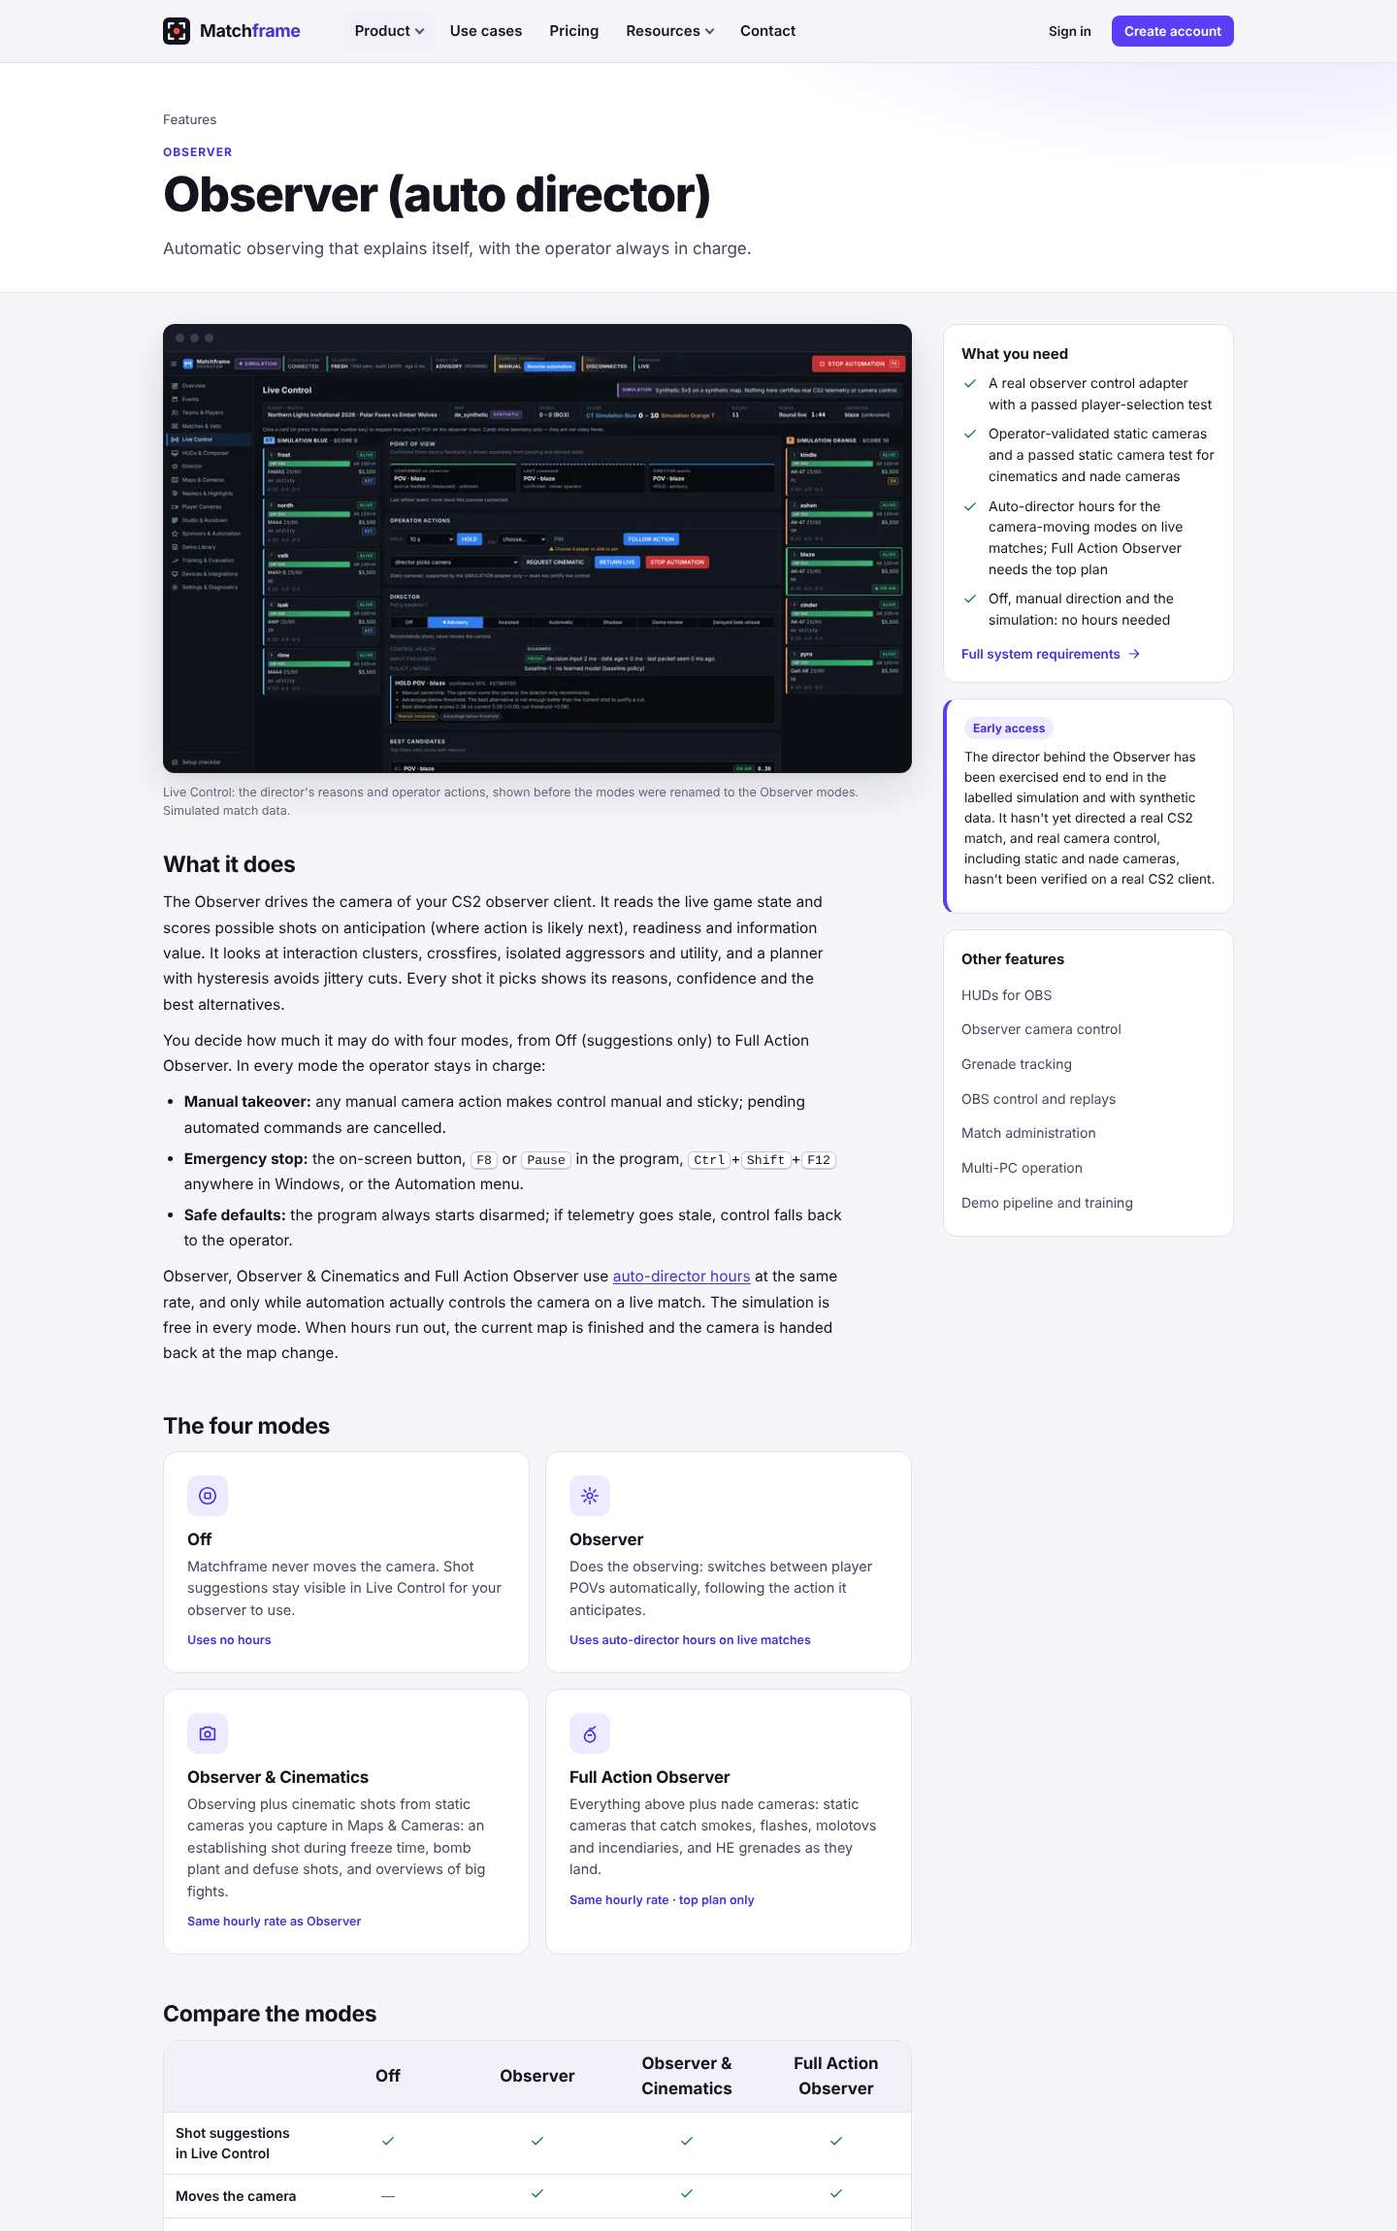
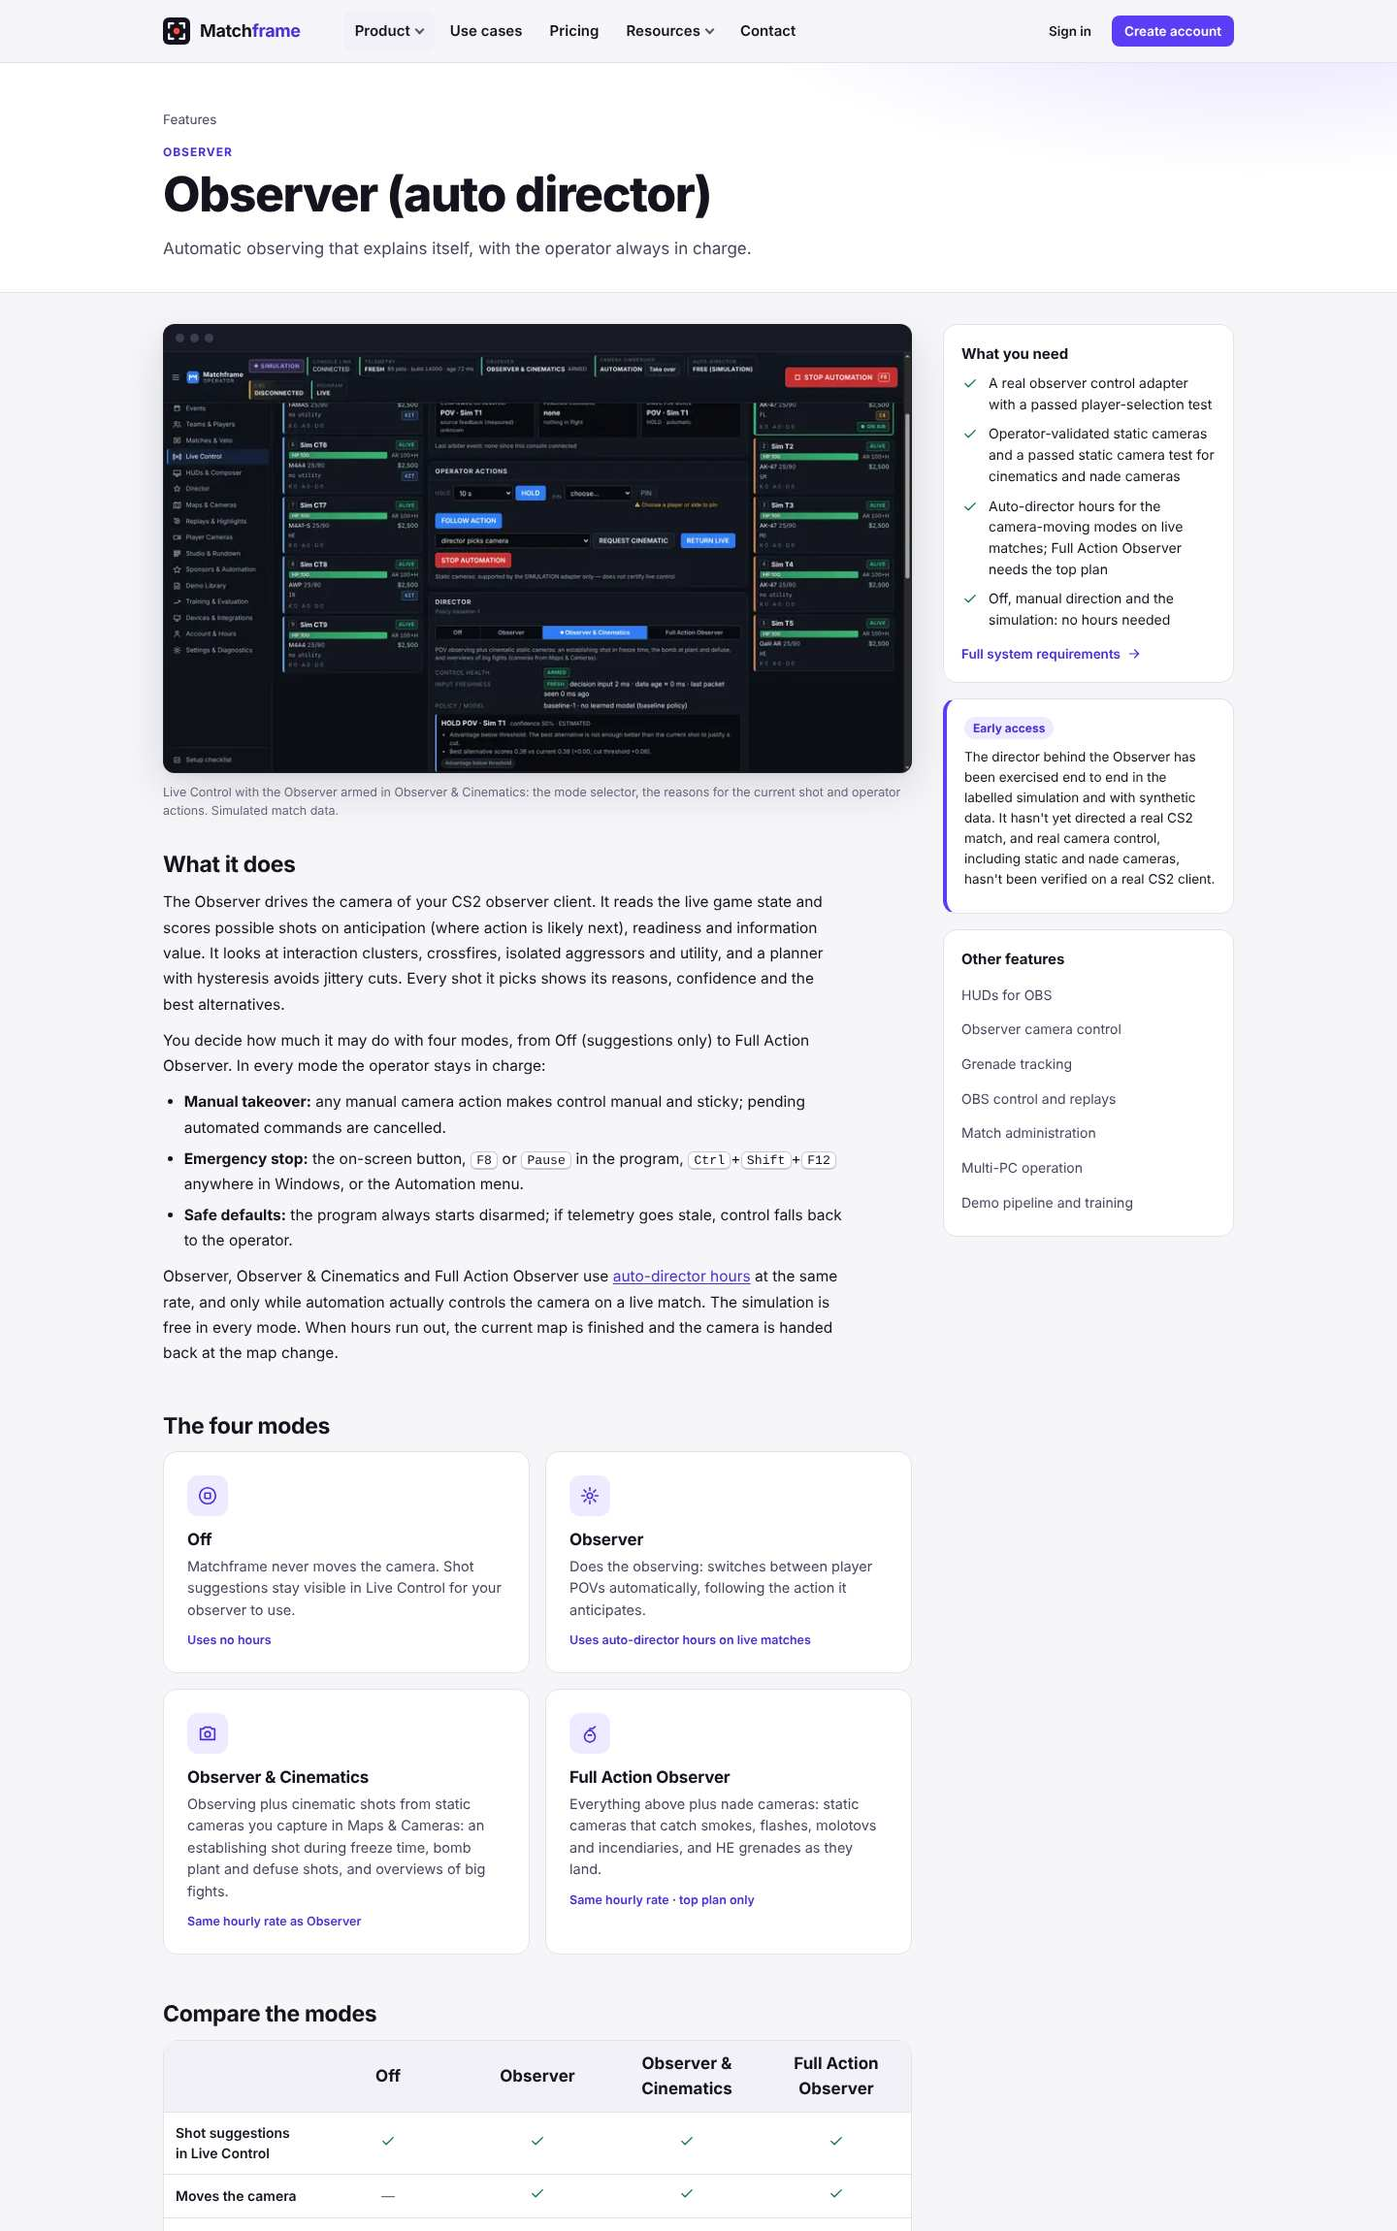
Website: plan changes described as the program applies them; new Live Control image
- A plan change reaches the program within 15 minutes; losing Full Action
  Observer switches to Observer & Cinematics at the next map change (FAQ,
  help, Observer page, how it works, changelog, catalogue hint).
- New program screenshot for the home and Observer pages: Live Control with
  the Observer armed in Observer & Cinematics.
- Screenshots refreshed for the affected pages (and the stale help page at
  390 px).
- BUILD_PROGRESS: 490 tests; Windows run for 0.1.2.

Claude-Session: https://claude.ai/code/session_01LaAUjAPvcaB4FzYKB4XiF4

Changed region(s): [[0.125, 0.1543, 0.6562, 0.3704], [0.125, 0.3396, 0.25, 0.3704], [0.5, 0.3396, 0.5625, 0.3704]]

diff --git a/apps/cloud-web/src/content/features.tsx b/apps/cloud-web/src/content/features.tsx
@@ -157,7 +157,7 @@ export const FEATURES: Feature[] = [
     tagline: "Automatic observing that explains itself, with the operator always in charge.",
     summary: "The Observer is Matchframe's auto director. It switches player POVs, adds cinematic shots from your static cameras and, on the top plan, catches the utility with nade cameras. Choose one of four modes, take the camera back at any moment and stop everything with one key.",
     highlights: ["Off, Observer, Observer & Cinematics and Full Action Observer", "Sticky manual takeover and emergency stop", "Starts disarmed every time"],
-    shot: { name: "live-control", alt: "Live Control: player cards for both teams, the point-of-view panel, operator actions and the director panel with the reasons for the current shot.", caption: "Live Control: the director's reasons and operator actions, shown before the modes were renamed to the Observer modes. Simulated match data." },
+    shot: { name: "live-control", alt: "Live Control: player cards for both teams, operator actions, the Observer mode selector (Off, Observer, Observer & Cinematics, Full Action Observer) and the reasons for the current shot.", caption: "Live Control with the Observer armed in Observer & Cinematics: the mode selector, the reasons for the current shot and operator actions. Simulated match data." },
     what: (
       <>
         <p>The Observer drives the camera of your CS2 observer client. It reads the live game state and scores possible shots on anticipation (where action is likely next), readiness and information value. It looks at interaction clusters, crossfires, isolated aggressors and utility, and a planner with hysteresis avoids jittery cuts. Every shot it picks shows its reasons, confidence and the best alternatives.</p>
@@ -210,7 +210,7 @@ export const FEATURES: Feature[] = [
       { q: "Which mode should I start with?", a: <p>Start in Off and watch the shot suggestions during a rehearsal. Move to Observer once you trust the setup, then add cinematics once your static cameras are captured and validated for the map. Full Action Observer adds nade cameras on the top plan.</p> },
       { q: "Do all the modes use the same hours?", a: <p>Observer, Observer &amp; Cinematics and Full Action Observer all use auto-director hours at the same rate, and only while automation actually controls the camera on a live match. Off, manual direction and the simulation are free in every mode.</p> },
       { q: "What are nade cameras?", a: <p>Static cameras placed to catch utility as it lands: smokes, flashes, molotovs and incendiaries, and HE grenades. You capture them with <code>getpos</code> in Maps &amp; Cameras like cinematic cameras, an operator validates each one, and the static camera test must pass. They're part of Full Action Observer, on the top plan.</p> },
-      { q: "What happens if we change plan during a match?", a: <p>Automation is never cut mid-map. A plan change, for example moving to or from the plan with Full Action Observer, applies the next time automation is armed.</p> },
+      { q: "What happens if we change plan during a match?", a: <p>Automation is never cut mid-map. The program picks up a plan change within 15 minutes; if the new plan doesn't include Full Action Observer, it switches to Observer &amp; Cinematics at the next map change.</p> },
       { q: "Is there a language model in the cut loop?", a: <p>No. Live decisions come from the rule-based director. Demo-trained models only run in shadow mode for comparison and never move the camera.</p> },
       { q: "What happens if the game data stops?", a: <p>If telemetry is stale for more than a few seconds, the command in flight is cancelled, control goes back to the operator and an alert is raised.</p> },
       { q: "Will it resume on its own after I take over?", a: <p>No. Automation only resumes when an operator chooses Resume automation, optionally after a short countdown.</p> },

diff --git a/apps/cloud-web/src/content/faq.tsx b/apps/cloud-web/src/content/faq.tsx
@@ -48,7 +48,7 @@ export function fullActionObserverFaq(planNames?: string[]): FaqItem {
           Full Action Observer does everything Observer &amp; Cinematics does and adds nade cameras: static cameras that catch smokes, flashes, molotovs and incendiaries, and HE grenades as they land. Like cinematic cameras, they're captured with <code>getpos</code> in Maps &amp; Cameras, validated by an operator and need a passed static camera test. It uses auto-director hours at the same rate as the other Observer modes.
         </p>
         <p>
-          {where} A plan change applies the next time automation is armed; automation is never cut mid-map.
+          {where} A new plan reaches the program within 15 minutes (or straight away with Refresh on Account &amp; Hours). If a plan stops including Full Action Observer, the program switches to Observer &amp; Cinematics at the next map change; automation is never cut mid-map.
         </p>
       </>
     ),
@@ -332,7 +332,7 @@ export const FAQ: FaqItem[] = [
     id: "cancel",
     category: "billing",
     q: "How do I cancel or change my plan?",
-    a: <p>Owners and billing members can change or cancel the subscription at any time in the customer portal (Billing &amp; Subscription → Manage subscription). A cancelled plan stays active until the end of the period you've paid for, then the organisation moves to the Free plan. In the program, a plan change applies the next time automation is armed, so a map in progress is never interrupted.</p>,
+    a: <p>Owners and billing members can change or cancel the subscription at any time in the customer portal (Billing &amp; Subscription → Manage subscription). A cancelled plan stays active until the end of the period you've paid for, then the organisation moves to the Free plan. The program picks up a plan change within 15 minutes, and never interrupts a map in progress: without Full Action Observer it switches to Observer &amp; Cinematics at the next map change.</p>,
   },
   {
     id: "payments",

diff --git a/apps/cloud-web/src/pages/admin/Catalog.tsx b/apps/cloud-web/src/pages/admin/Catalog.tsx
@@ -159,7 +159,7 @@ function PlanEditor({ plan, onSaved, onCancel }: { plan: Plan | null; onSaved: (
       </div>
       <div className="editor-checks">
         <CheckField label="Automatic direction" checked={f.autoDirector} onValue={set("autoDirector")} hint="Observer and Observer & Cinematics. Off = the plan includes no auto-director hours (credits are not usable either)." />
-        <CheckField label="Full Action Observer (nade cameras)" checked={f.fullActionObserver} onValue={set("fullActionObserver")} hint={f.autoDirector ? "Adds nade cameras on top of Observer & Cinematics, at the same hourly rate. Applies in the program the next time automation is armed." : "Has no effect without automatic direction: it uses the same auto-director hours."} />
+        <CheckField label="Full Action Observer (nade cameras)" checked={f.fullActionObserver} onValue={set("fullActionObserver")} hint={f.autoDirector ? "Adds nade cameras on top of Observer & Cinematics, at the same hourly rate. Programs pick it up with their next licence refresh (within 15 minutes); removing it switches running programs to Observer & Cinematics at the next map change." : "Has no effect without automatic direction: it uses the same auto-director hours."} />
         <CheckField label="Learned-director shadow mode" checked={f.learnedDirectorShadow} onValue={set("learnedDirectorShadow")} />
         <CheckField label="Public (shown on the pricing page and purchasable)" checked={f.public} onValue={set("public")} />
       </div>

diff --git a/apps/cloud-web/src/content/help.tsx b/apps/cloud-web/src/content/help.tsx
@@ -183,7 +183,7 @@ export const HELP_ARTICLES: HelpArticle[] = [
         <h2>When hours run out</h2>
         <p>Automation that's already running finishes the current map and then hands the camera back to your operator. It's never cut off mid-map. Automatic direction can't be re-armed until hours are added or the next period starts. There are no overage charges.</p>
         <h2>Changing plan</h2>
-        <p>A plan change, for example moving to the plan with Full Action Observer, applies in the program the next time automation is armed. Automation that's running on a map is never interrupted by it.</p>
+        <p>A plan change reaches the program within 15 minutes (or straight away with <strong>Refresh</strong> on Account &amp; Hours). Moving to the plan with Full Action Observer unlocks it in Live Control. Moving away from it never interrupts a map: the program switches to Observer &amp; Cinematics at the next map change.</p>
         <h2>When hours reset</h2>
         <p>
           Included hours renew at the start of each billing period on a paid plan, and each calendar month on the Free plan. They don't roll over. Need more right now? <Link to="/help/buying-hour-packs">Buy an hour pack</Link>.

diff --git a/apps/cloud-web/src/pages/site/Changelog.tsx b/apps/cloud-web/src/pages/site/Changelog.tsx
@@ -22,7 +22,7 @@ const RELEASES: Release[] = [
           "Observer switches between player POVs automatically.",
           "Observer & Cinematics adds cinematic shots from static cameras you capture in Maps & Cameras: an establishing shot during freeze time, bomb plant and defuse shots, and overviews of big fights.",
           "Full Action Observer adds nade cameras that catch smokes, flashes, molotovs and incendiaries, and HE grenades as they land. Top plan only.",
-          "Observer, Observer & Cinematics and Full Action Observer use auto-director hours at the same rate; the simulation is free in every mode. A plan change applies the next time automation is armed, never mid-map.",
+          "Observer, Observer & Cinematics and Full Action Observer use auto-director hours at the same rate; the simulation is free in every mode. If a plan stops including Full Action Observer, the program switches to Observer & Cinematics at the next map change, never mid-map.",
         ],
       },
       {

diff --git a/apps/cloud-web/src/pages/site/HowItWorks.tsx b/apps/cloud-web/src/pages/site/HowItWorks.tsx
@@ -174,7 +174,7 @@ export function HowItWorks() {
           <div>
             <SectionHead id="metering-title" eyebrow="Fair metering" title="Hours are used only while automation drives the camera" lead="The program counts a second only when every one of these is true:" />
             <Callout title="At the limit">
-              <p>Automation already running is never cut off mid-map: it finishes the map and hands the camera back at the map change. Re-arming is then blocked until hours are added. There are no overage charges. A plan change also applies the next time automation is armed.</p>
+              <p>Automation already running is never cut off mid-map: it finishes the map and hands the camera back at the map change. Re-arming is then blocked until hours are added. There are no overage charges. If a plan stops including Full Action Observer, the program switches to Observer &amp; Cinematics at the next map change.</p>
             </Callout>
           </div>
           <div>

diff --git a/BUILD_PROGRESS.md b/BUILD_PROGRESS.md
@@ -24,12 +24,13 @@ Last updated: 2026-10-26. Branch: `claude/inspiring-newton-it4omx`. For a resume
 |---|---|
 | `pnpm typecheck` | pass |
 | `pnpm lint` | pass |
-| `pnpm test` (unit, fixture, e2e with real HTTP/WS servers, console and website component tests, staff/admin and program sign-in API suites, engine ↔ website e2e incl. password sign-in) | 471 passed, 10 skipped (the opt-in real-integration files) |
+| `pnpm test` (unit, fixture, e2e with real HTTP/WS servers, console and website component tests, staff/admin and program sign-in API suites, Observer-mode director tests, engine ↔ website e2e incl. password sign-in and the Full Action Observer plan feature) | 490 passed, 10 skipped (the opt-in real-integration files) |
 | `pnpm test:py` without demos / with `MF_TEST_DEMOS` | 56 passed, 9 skipped / 65 passed (unchanged since the last run) |
 | `pnpm test:integration` (real demos + Python workers; real OBS 30.0.2) | 8 passed (last run before the cloud work; not affected by it) |
 | Cloud API on a real Postgres 16 server (`MF_TEST_DATABASE_URL`) | 2 passed: migrations v1→v4, rollback, catalogue price fill-in, six concurrent computers debit credits exactly once; the staff/admin suite (6 tests) also passed against the same server |
 | `pnpm smoke:desktop` (Linux, Xvfb) | pass — local website started from source; local mode: opens on the sign-in screen with the console closed, signs in with a website account's email and password, console from `app://matchframe`, API forwarding, live WebSocket, hardened window, engine HTTP address serves no console (404), captain page served, navigation lock; remote mode: connected to a second engine (signed in through its API) with an observer token, no local engine started |
 | Packaged program smoke test (`scripts/packaged-smoke.cjs`, Linux unpacked build, 0.1.1) | pass — sign-in screen, real sign-in against a local website, then the checks below |
+| Windows program (.exe) workflow, 0.1.2 with the Observer modes ([run 40444326932](https://github.com/MalakaiCS/Matchframe-Esports/actions/runs/40444326932)) | **pass** — built, pinned to the live website, installed, signed in through the sign-in screen, smoke-tested, uninstalled |
 | **Windows program (.exe) workflow on `windows-latest`, 0.1.1 with sign-in** ([run 40439797010](https://github.com/MalakaiCS/Matchframe-Esports/actions/runs/40439797010)) | **pass** — build pinned to the live website (`https://matchframe-esports-production.up.railway.app`, licence key `c3410a1069cd740a` read from it); installed program opened on the sign-in screen and signed in with a website account's email and password against a local website (`signed_in`, method `password`); engine 0.1.1 healthy, console, captain 200, HUD output 200, no console errors; `MatchframeEsports-Setup-0.1.1.exe` SHA-256 `a7b25801…bd56d` |
 | Windows program (.exe) workflow, 0.1.0 ([run 40408121752](https://github.com/MalakaiCS/Matchframe-Esports/actions/runs/40408121752), again on the final commit in [run 40409354285](https://github.com/MalakaiCS/Matchframe-Esports/actions/runs/40409354285)) | **pass** — installer built, silent per-user install to `%LOCALAPPDATA%\Programs\Matchframe Esports`, installed program: bundled engine healthy, console from `app://matchframe` (18 nav items), owner API via forwarding, engine root 404, captain 200, HUD output 200, no console errors; program settings in `<data folder>\program`; uninstalled; installer + zip + SHA256SUMS uploaded as an artifact |
 | Website container | runtime image (bundle + built website, non-root, health check) on Postgres 16: healthy; website, API and installer download served; downloaded installer byte-identical (SHA-256 `b9ad1c8d…45a2`). The full multi-stage Dockerfile build was **not** run: build containers cannot reach the network through this environment's proxy, and passing the proxy and its CA into the build was refused by the permission classifier |
